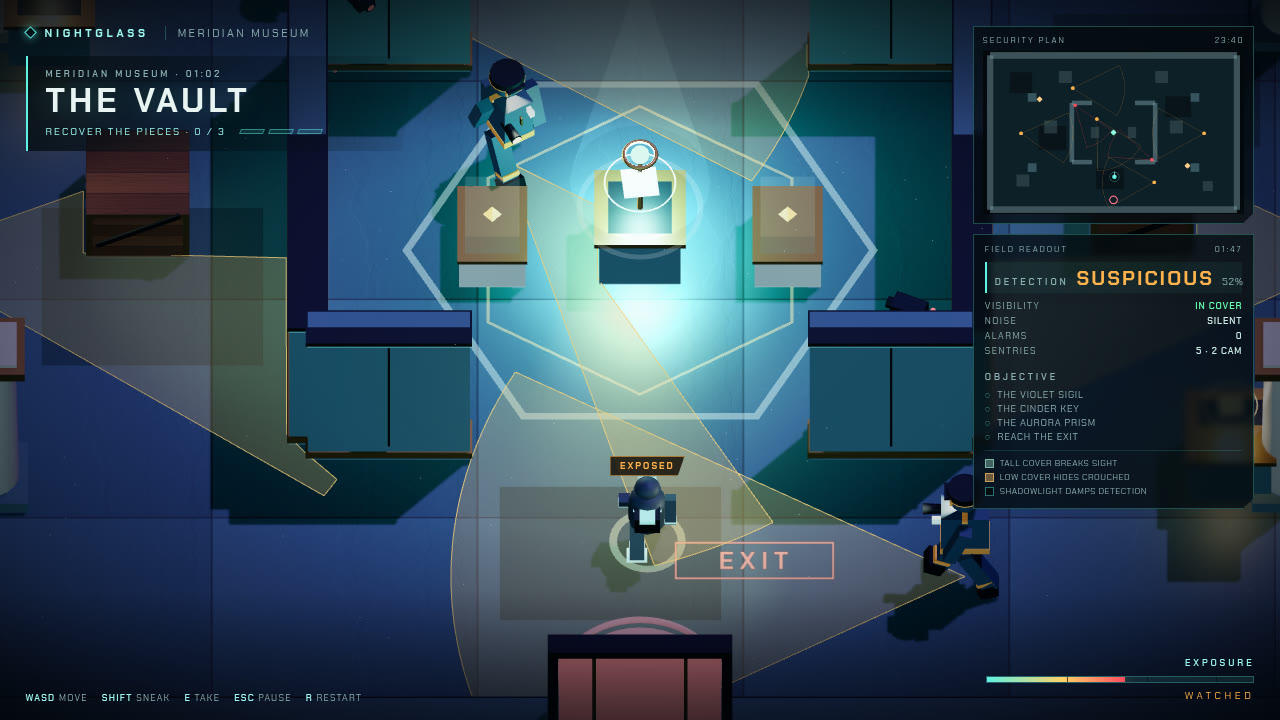
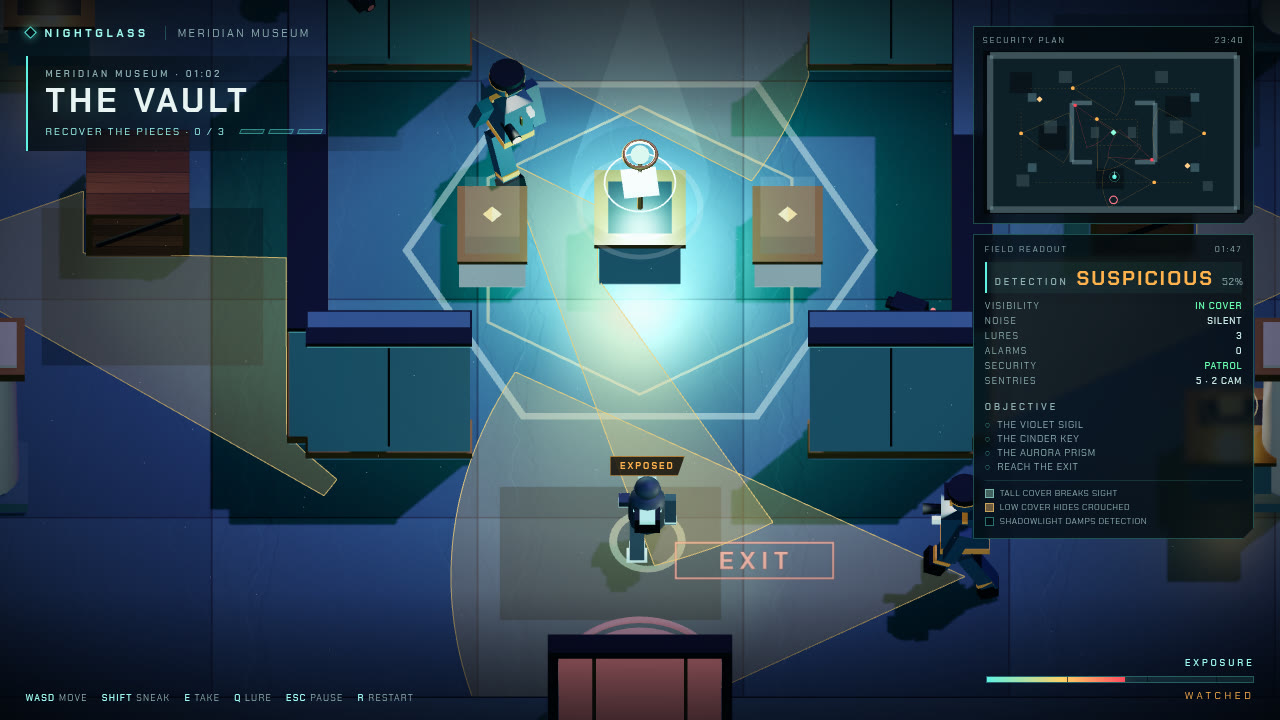
Add noise lures, guard-state readout and patrol routes

Changed region(s): [[0.75, 0.4583, 1.0, 0.7639], [0.1875, 0.9472, 0.3125, 0.9778], [0.9375, 0.4583, 0.9688, 0.55]]

diff --git a/game/src/main.js b/game/src/main.js
@@ -14,6 +14,7 @@ import { Player } from './player.js';
 import { Guard, SecurityCamera } from './guard.js';
 import { Footprints, ShardBursts } from './effects.js';
 import { stageShot } from './shots.js';
+import { LureManager } from './lures.js';
 
 const canvas = document.getElementById('game');
 const renderer = new THREE.WebGLRenderer({ canvas, antialias: true, powerPreference: 'high-performance' });
@@ -38,6 +39,7 @@ let level = null;
 let player = null;
 let guards = [];
 let cameras = [];
+let lures = null;
 let levelIndex = 0;
 let mode = 'title';
 let levelTime = 0;
@@ -68,10 +70,12 @@ function disposeWorld() {
   if (player) player.dispose(scene);
   for (const guard of guards) guard.dispose(scene);
   for (const camera of cameras) camera.dispose(scene);
+  if (lures) lures.dispose();
   if (level) level.dispose();
   player = null;
   guards = [];
   cameras = [];
+  lures = null;
   level = null;
 }
 
@@ -90,7 +94,21 @@ function loadLevel(index) {
     camera.onAlarm = registerCameraAlarm;
     return camera;
   });
+  lures = new LureManager(scene, (x, z) => {
+    audio.lurePing();
+    hud.toast('LURE PING · A GUARD IS COMING TO LOOK', 2.4);
+    for (const guard of guards) {
+      const distance = Math.hypot(guard.position.x - x, guard.position.z - z);
+      if (distance > 6.5) continue;
+      guard.lastSeen = { x, z };
+      guard.awareness = Math.max(guard.awareness, 0.45);
+      guard.investigateTimer = 6.5;
+      if (guard.state === 'patrol' || guard.state === 'suspect') guard.state = 'investigate';
+      guard.paintCone();
+    }
+  });
   level.setExitUnlocked(false);
+  hud.setLures(player.lures);
   levelTime = 0;
   levelAlarms = 0;
   exposure = 0;
@@ -218,6 +236,25 @@ function getCaught() {
   hud.announce('Caught. Try the wing again.');
 }
 
+function throwLure() {
+  if (mode !== 'play' || !level) return;
+  if (player.lures <= 0) {
+    hud.toast('NO LURES LEFT · FINISH THE WING QUIETLY', 1.8);
+    return;
+  }
+  let x = player.position.x + Math.cos(player.facing) * 2.4;
+  let z = player.position.z + Math.sin(player.facing) * 2.4;
+  if (level.collides(x, z, 0.18) || x < 0.5 || z < 0.5 || x > level.data.size.w - 0.5 || z > level.data.size.d - 0.5) {
+    x = player.position.x + Math.cos(player.facing) * 1.1;
+    z = player.position.z + Math.sin(player.facing) * 1.1;
+  }
+  player.lures -= 1;
+  hud.setLures(player.lures);
+  lures.throwAt(x, z);
+  audio.lure();
+  hud.toast('LURE OUT · LISTEN FOR THE PING', 1.8);
+}
+
 function tryInteract() {
   if (mode !== 'play' || !level) return;
   const relic = level.relicNear(player.position.x, player.position.z, 1.45);
@@ -285,6 +322,7 @@ function step(dt) {
   level.update(dt);
   footprints.update(dt);
   bursts.update(dt);
+  if (lures) lures.update(dt);
 
   if (level.relics.every((relic) => relic.collected) && level.inExit(player.position.x, player.position.z)) {
     completeLevel();
@@ -297,6 +335,7 @@ function ambientStep(dt) {
   level.update(dt);
   footprints.update(dt);
   bursts.update(dt);
+  if (lures) lures.update(dt);
 }
 
 function drawMinimap() {
@@ -313,6 +352,8 @@ function updateReadout() {
   const alerted = guards.some((guard) => guard.state === 'alarm' || guard.state === 'search')
     || cameras.some((camera) => camera.awareness > 0.8);
   const tier = alerted || exposure > 0.8 ? 'spot' : exposure > 0.3 ? 'watch' : 'clear';
+  const watchers = guards.filter((guard) => guard.awareness > 0.3 && guard.state !== 'alarm' && guard.state !== 'search').length;
+  const alerts = guards.filter((guard) => guard.state === 'alarm' || guard.state === 'search').length;
   const concealed = level.isConcealed(player.position.x, player.position.z, player.crouching);
   player.setConcealed(concealed);
   hud.setExposure(exposure, tier);
@@ -321,7 +362,10 @@ function updateReadout() {
     concealed,
     moving: player.speed > 0.25,
     crouching: player.crouching,
+    lures: player.lures,
     alarms: levelAlarms,
+    watchers,
+    alerts,
     time: formatTime(levelTime),
     relicsTaken: taken,
     total,
@@ -431,6 +475,7 @@ function onKeyDown(event) {
     if (mode === 'play') pauseGame();
     else if (mode === 'pause') resumeGame();
   } else if (event.code === 'KeyE') tryInteract();
+  else if (event.code === 'KeyQ') throwLure();
   else if (event.code === 'KeyR') {
     if (mode === 'play' || mode === 'pause' || mode === 'caught') restartWing();
   }

diff --git a/game/src/lures.js b/game/src/lures.js
@@ -1,0 +1,73 @@
+// The noise lure: a small brass token thrown ahead. It pings once, and any guard
+// close enough walks over to the sound instead of holding the route. This is the
+// thief's one gadget: three per wing, no alarm unless a guard walks into you.
+
+import * as THREE from '../vendor/three.module.min.js';
+
+const PING_AT = 0.45;
+const LIFE = 2.6;
+
+export class LureManager {
+  constructor(scene, onPing) {
+    this.scene = scene;
+    this.onPing = onPing;
+    this.items = [];
+    this.coinMaterial = new THREE.MeshStandardMaterial({ color: '#ffd166', emissive: '#ffb24d', emissiveIntensity: 1.7, metalness: 0.65, roughness: 0.3 });
+    this.ringMaterial = new THREE.MeshBasicMaterial({ color: '#ffd166', transparent: true, opacity: 0.5, depthWrite: false, side: THREE.DoubleSide });
+  }
+
+  throwAt(x, z) {
+    const group = new THREE.Group();
+    const coin = new THREE.Mesh(new THREE.CylinderGeometry(0.12, 0.12, 0.035, 14), this.coinMaterial);
+    coin.rotation.z = Math.PI / 2;
+    coin.position.y = 0.09;
+    coin.castShadow = true;
+    group.add(coin);
+    const ring = new THREE.Mesh(new THREE.RingGeometry(0.18, 0.24, 28), this.ringMaterial.clone());
+    ring.rotation.x = -Math.PI / 2;
+    ring.position.y = 0.025;
+    group.add(ring);
+    const halo = new THREE.Mesh(new THREE.RingGeometry(0.05, 0.07, 20), this.ringMaterial.clone());
+    halo.rotation.x = -Math.PI / 2;
+    halo.position.y = 0.03;
+    group.add(halo);
+    group.position.set(x, 0, z);
+    this.scene.add(group);
+    this.items.push({ group, coin, ring, halo, time: 0, pinged: false });
+  }
+
+  update(dt) {
+    for (let index = this.items.length - 1; index >= 0; index -= 1) {
+      const item = this.items[index];
+      item.time += dt;
+      item.coin.rotation.y += dt * 4.2;
+      item.coin.position.y = 0.09 + Math.abs(Math.sin(item.time * 6)) * 0.06;
+      const pulse = 1 + Math.sin(item.time * 10) * 0.12;
+      item.ring.scale.setScalar(pulse);
+      if (!item.pinged && item.time >= PING_AT) {
+        item.pinged = true;
+        item.ring.scale.setScalar(1.8);
+        if (this.onPing) this.onPing(item.group.position.x, item.group.position.z);
+      }
+      if (item.time > LIFE) {
+        this.scene.remove(item.group);
+        item.group.traverse((object) => {
+          if (object.geometry) object.geometry.dispose();
+          if (object.material && object.material !== this.coinMaterial) object.material.dispose();
+        });
+        this.items.splice(index, 1);
+      }
+    }
+  }
+
+  dispose() {
+    for (const item of this.items) {
+      this.scene.remove(item.group);
+      item.group.traverse((object) => {
+        if (object.geometry) object.geometry.dispose();
+        if (object.material && object.material !== this.coinMaterial) object.material.dispose();
+      });
+    }
+    this.items = [];
+  }
+}

diff --git a/game/src/hud.js b/game/src/hud.js
@@ -25,6 +25,8 @@ export function createHud() {
   const intelAlarms = element('intel-alarms');
   const intelSentries = element('intel-sentries');
   const intelTime = element('intel-time');
+  const intelLures = element('intel-lures');
+  const intelSecurity = element('intel-security');
   const objectives = element('intel-objectives');
   const coverTag = element('cover-tag');
   let toastTimer = 0;
@@ -91,12 +93,21 @@ export function createHud() {
       intelPercent.textContent = `${Math.round(Math.max(0, Math.min(1, value)) * 100)}%`;
     },
 
-    setIntel({ concealed, moving, crouching, alarms, time, relicsTaken, total, exitUnlocked }) {
+    setLures(count) {
+      intelLures.textContent = String(count);
+      intelLures.classList.toggle('exposed', count === 0);
+    },
+
+    setIntel({ concealed, moving, crouching, lures, alarms, watchers = 0, alerts = 0, time, relicsTaken, total, exitUnlocked }) {
       intelVisibility.textContent = concealed ? 'IN COVER' : 'OPEN FLOOR';
       intelVisibility.classList.toggle('hidden', concealed);
       intelVisibility.classList.toggle('exposed', !concealed);
       intelNoise.textContent = crouching ? 'SILENT' : moving ? 'FOOTSTEPS' : 'STILL';
+      intelLures.textContent = String(lures);
       intelAlarms.textContent = String(alarms);
+      intelSecurity.textContent = alerts > 0 ? `${alerts} ALERT` : watchers > 0 ? `${watchers} WATCH` : 'PATROL';
+      intelSecurity.classList.toggle('exposed', alerts > 0);
+      intelSecurity.classList.toggle('hidden', alerts === 0 && watchers === 0);
       intelTime.textContent = time;
       const entries = objectives.children;
       for (let index = 0; index < entries.length; index += 1) {
@@ -230,6 +241,18 @@ export function createHud() {
       }
 
       for (const guard of actors) {
+        if (guard.points && guard.points.length > 1) {
+          context.setLineDash([3, 4]);
+          context.strokeStyle = 'rgba(255, 178, 77, 0.28)';
+          context.lineWidth = 1;
+          context.beginPath();
+          context.moveTo(mapX(guard.points[0][0]), mapY(guard.points[0][1]));
+          for (let point = 1; point < guard.points.length; point += 1) {
+            context.lineTo(mapX(guard.points[point][0]), mapY(guard.points[point][1]));
+          }
+          context.stroke();
+          context.setLineDash([]);
+        }
         const alarmed = guard.state === 'alarm' || guard.state === 'search';
         const color = alarmed ? '#ff4d5e' : guard.awareness > 0.3 ? '#ff8a3d' : '#ffb24d';
         context.strokeStyle = alarmed ? 'rgba(255, 77, 94, 0.34)' : 'rgba(255, 178, 77, 0.26)';

diff --git a/game/index.html b/game/index.html
@@ -43,7 +43,9 @@
         <div class="intel-rows">
           <div><span>VISIBILITY</span><b id="intel-visibility">IN COVER</b></div>
           <div><span>NOISE</span><b id="intel-noise">SILENT</b></div>
+          <div><span>LURES</span><b id="intel-lures">3</b></div>
           <div><span>ALARMS</span><b id="intel-alarms">0</b></div>
+          <div><span>SECURITY</span><b id="intel-security">PATROL</b></div>
           <div><span>SENTRIES</span><b id="intel-sentries">0 · 0 CAM</b></div>
         </div>
         <div class="intel-objectives">
@@ -74,6 +76,7 @@
     <span><b>WASD</b> move</span>
     <span><b>SHIFT</b> sneak</span>
     <span><b>E</b> take</span>
+    <span><b>Q</b> lure</span>
     <span><b>ESC</b> pause</span>
     <span><b>R</b> restart</span>
   </div>
@@ -97,6 +100,7 @@
         <div><b>WASD</b><span>Move through the galleries</span></div>
         <div><b>SHIFT</b><span>Sneak: slower, quieter, harder to see</span></div>
         <div><b>E</b><span>Take a relic or enter the exit</span></div>
+        <div><b>Q</b><span>Throw a noise lure; three per wing</span></div>
         <div><b>ESC</b><span>Pause · <b>R</b> restart the wing</span></div>
         <p>Guards see along their amber cones. Break the line of sight behind tall cover, crouch behind low crates, and keep out of the pale pools of shadowlight. If a guard fills the alarm, run — the hunt cools after a while.</p>
       </div>

diff --git a/game/src/guard.js b/game/src/guard.js
@@ -89,6 +89,7 @@ export class Guard {
     this.lastSeen = null;
     this.alarmTimer = 0;
     this.searchTimer = 0;
+    this.investigateTimer = 0;
     this.phase = index * 1.7;
     this.stepPhase = 0;
     this.moveSpeed = 0;
@@ -179,6 +180,15 @@ export class Guard {
         }
       }
       if (this.alarmTimer <= 0) this.state = 'return';
+    } else if (this.state === 'investigate') {
+      this.investigateTimer -= dt;
+      if (this.lastSeen && distance(this.position.x, this.position.z, this.lastSeen.x, this.lastSeen.z) > 0.5) {
+        this.walkToward(this.lastSeen.x, this.lastSeen.z, GUARD.patrolSpeed * 1.6, dt);
+      } else {
+        this.state = 'search';
+        this.searchTimer = GUARD.searchTime;
+      }
+      if (this.investigateTimer <= 0) this.state = 'return';
     } else if (this.state === 'search') {
       this.searchTimer -= dt;
       this.facing = turnToward(this.facing, this.facing + Math.sin(this.phase + this.searchTimer * 2.2) * 0.9, 2.4 * dt);

diff --git a/game/src/audio.js b/game/src/audio.js
@@ -154,6 +154,15 @@ export class AudioEngine {
     this.tone(880, 0.05, { type: 'square', volume: 0.03 });
   }
 
+  lure() {
+    this.noise(0.12, 0.035, 1400);
+  }
+
+  lurePing() {
+    this.tone(1180, 0.22, { type: 'triangle', volume: 0.07, slide: 1560 });
+    setTimeout(() => this.tone(880, 0.18, { type: 'sine', volume: 0.05 }), 80);
+  }
+
   heartbeat(dt, intensity) {
     this.heartbeatRate = intensity;
     if (intensity <= 0.05) return;

diff --git a/game/src/player.js b/game/src/player.js
@@ -18,6 +18,7 @@ export class Player {
     this.stepPhase = 0;
     this.speed = 0;
     this.noise = 0;
+    this.lures = 3;
     this.radius = PLAYER.radius;
     this.stepTimer = 0;
     this.concealed = false;

diff --git a/README.md b/README.md
@@ -16,13 +16,14 @@ Then open <http://localhost:8080>. The game itself is plain static files under `
 
 ## The heist
 
-Three wings — the Atrium, the Long Gallery and the Vault — each with its own patrols, cover and security cameras. Guards carry flashlight cones stopped by walls and cover. Crouching shrinks your silhouette, quiets your footsteps and lets a low crate hide you; tall plinths, shelves and display cases hide you standing. If a cone fills, the alarm spreads: break line of sight, wait for the search to cool, and the patrols return to their rounds.
+Three wings — the Atrium, the Long Gallery and the Vault — each with its own patrols, cover and security cameras. Guards carry flashlight cones stopped by walls and cover. Crouching shrinks your silhouette, quiets your footsteps and lets a low crate hide you; tall plinths, shelves and display cases hide you standing. A thrown noise lure pulls a patrol off its round to investigate, and the field readout tracks detection, noise, lures and the guards' state. If a cone fills, the alarm spreads: break line of sight, wait for the search to cool, and the patrols return to their rounds.
 
 | Key | Action |
 | --- | --- |
 | `WASD` / arrows | Move |
 | `Shift` | Sneak |
 | `E` | Take a relic, or enter the exit |
+| `Q` | Throw a noise lure (three per wing) |
 | `Esc` | Pause |
 | `R` | Restart the wing |
 
@@ -34,6 +35,7 @@ Take all three relics in a wing to unlock its exit. Alarm-raising guards, camera
 - `game/src/level-data.js` — three heists as data: walls, cover, relics, patrol routes, cameras.
 - `game/src/level.js`, `vision.js`, `guard.js`, `player.js` — geometry, line-of-sight cones, patrol/alarm behaviour and movement.
 - `game/src/models.js`, `materials.js` — every wall, figure, relic and texture, built from code.
+- `game/src/lures.js` — the thrown noise lure and its ping.
 - `game/src/hud.js`, `effects.js`, `audio.js`, `camera.js` — overlay, feedback, WebAudio and the isometric camera.
 - `game/src/main.js`, `shots.js` — screen flow, fixed-step loop and the screenshot staging.
 - `game/vendor/` — three.js, vendored and minified, so the game runs offline.
